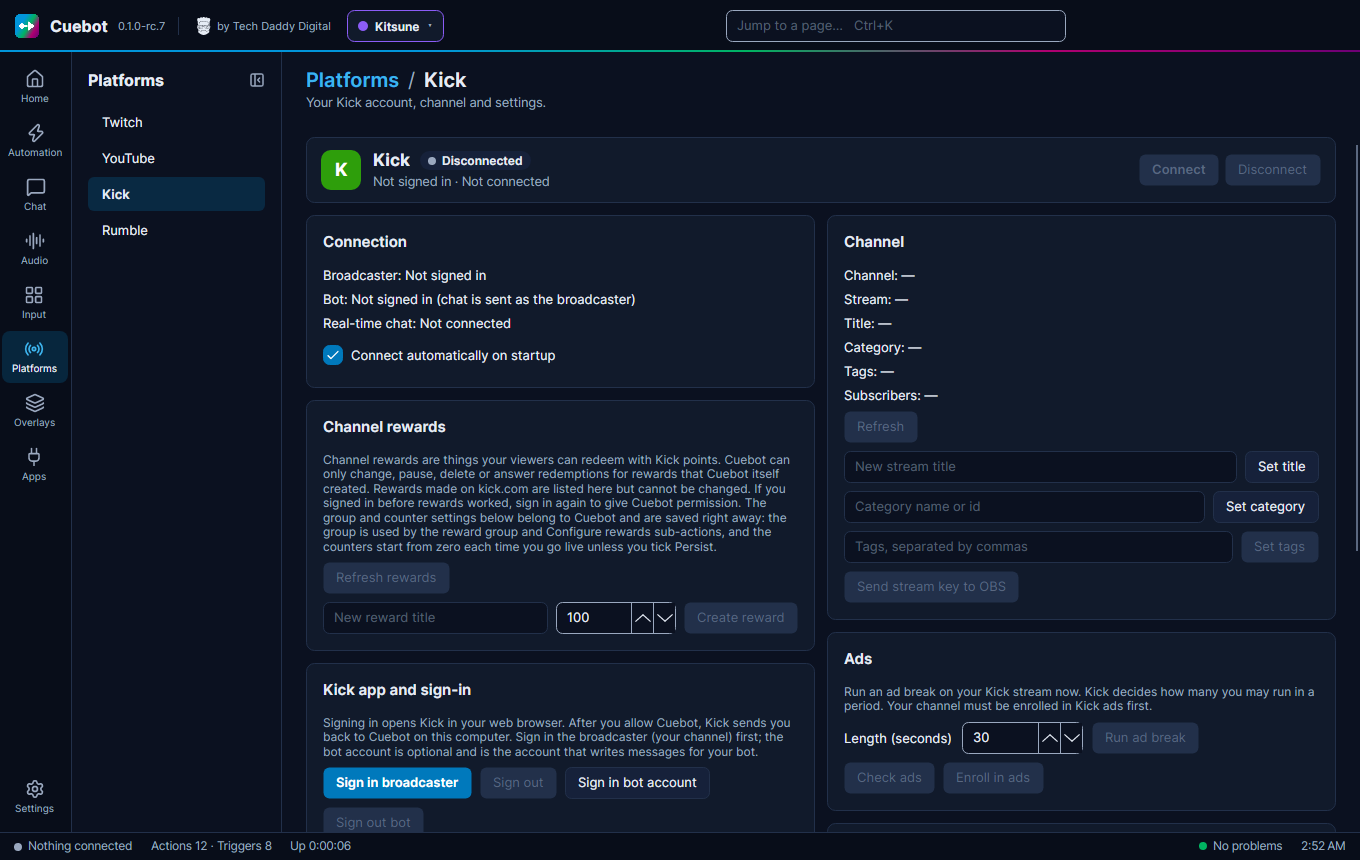
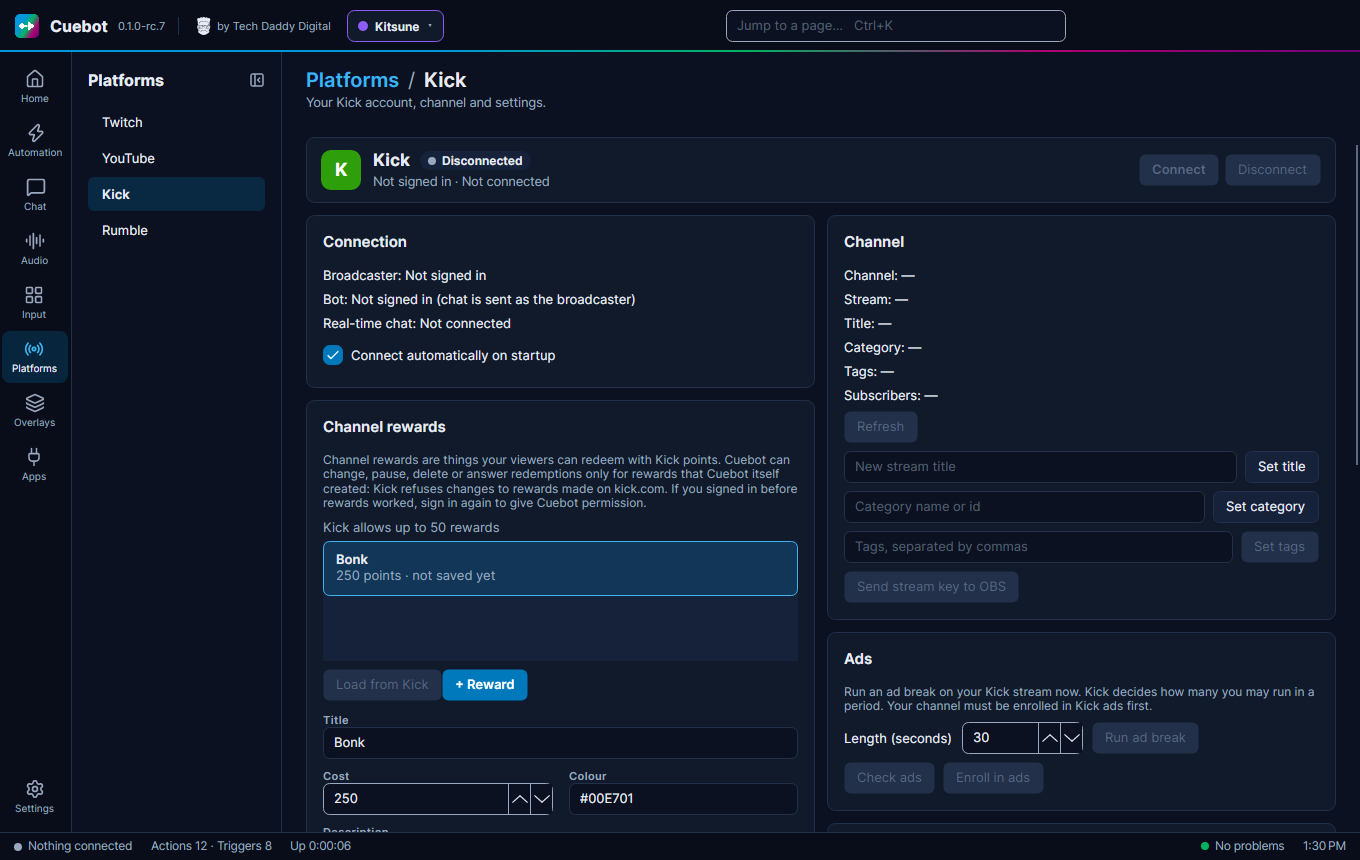
Docs site: screenshots for the mod portal Assistant and rewards
The guides already describe the mod portal Assistant, the Rewards page,
the Kick reward editor and the Twitch Power-ups tab. This adds the
pictures.

New pictures:
- Mod portal Assistant: a Bonk redeem with a sound attached; the
  Assistant makes the reward and action, then asks before running it.
  Shown in the mod portal and Assistant guides.
- Mod portal Rewards page and reward editor.

Regenerated with the docs screenshot test (CUEBOT_WRITE_SCREENSHOTS=1):
- Mod portal page, with the daily Assistant message limit.
- Kick page and its Channel rewards card (the new editor).
- Twitch Rewards and Power-ups tabs, and the other Twitch tabs whose
  tab strip now includes Power-ups.

The generator now puts an unsaved demo reward in both editors, since the
demo has no signed-in channel. Only pictures that changed for these
features were kept; the rest of that run was discarded.

Fix found while taking the pictures: a mod's message with an attached
file showed the note Cuebot adds for the AI, including upload ids. The
conversation now shows the mod's words and the file names; the AI still
gets the ids (ScopedConversation.Send gains a shown text).

Checks:
- New ScopedTests case for the shown text; Assistant and Portal test
  projects pass.
- The UiTests build passes and the screenshot run passes.
- mkdocs --strict passes.

AI-Assisted-By: Claude

Changed region(s): [[0.2162, 0.5442, 0.5868, 0.9674], [0.9882, 0.5442, 1.0, 0.6349], [0.8956, 0.9674, 0.9882, 0.9977]]

diff --git a/src/Cuebot.Portal/Assistant/PortalAssistant.cs b/src/Cuebot.Portal/Assistant/PortalAssistant.cs
@@ -60,7 +60,9 @@ public sealed class PortalAssistant(PortalDirectory directory, ScopedAssistant? 
             case "assistant.send":
             {
                 var text = (string?)request["text"] ?? "";
-                var attached = Attachments(member, request["attachments"] as JsonArray);
+                var (attached, names) = Attachments(member, request["attachments"] as JsonArray);
+                // The AI gets the files' upload ids; the conversation shows the mod's words and the file names.
+                var shown = names.Count > 0 ? $"{text.Trim()}\n📎 {string.Join(", ", names)}" : null;
                 if (attached.Length > 0) text = text.Trim() + "\n\n" + attached;
                 var conversation = assistant.For(key, () => new McpScope(Tools(member.Id), AssistantPrompt.BuildForMod(member.Name)),
                     () => AssistantPrompt.BuildForMod(member.Name));
@@ -69,7 +71,7 @@ public sealed class PortalAssistant(PortalDirectory directory, ScopedAssistant? 
                     var used = UsedToday(member.Id);
                     if (used >= directory.AssistantMessagesPerDay)
                         return Error($"You have used today's {directory.AssistantMessagesPerDay} messages. The count starts again tomorrow (UTC).");
-                    if (conversation.Send(text) is { } problem) return Error(problem);
+                    if (conversation.Send(text, shown) is { } problem) return Error(problem);
                     _used[member.Id] = (Today, used + 1);
                 }
                 log?.Info(LogSource, $"{member.Name} asked the assistant something.");
@@ -111,19 +113,26 @@ public sealed class PortalAssistant(PortalDirectory directory, ScopedAssistant? 
     }
 
     /// <summary>A note for the AI about the uploads the member attached: ones in the library, or their own waiting for approval.</summary>
-    private string Attachments(PortalMember member, JsonArray? ids)
+    private (string Note, List<string> Names) Attachments(PortalMember member, JsonArray? ids)
     {
-        if (ids is null || ids.Count == 0) return "";
         var notes = new List<string>();
+        var names = new List<string>();
+        if (ids is null || ids.Count == 0) return ("", names);
         foreach (var node in ids.Take(10))
         {
             if (!Guid.TryParse((string?)node, out var id)) continue;
             if (media?.Get(id) is { } item)
+            {
                 notes.Add($"- \"{item.Name}\" ({item.Kind.ToString().ToLowerInvariant()}): ready, use \"{PortalFiles.Prefix}{item.Id}\"");
+                names.Add(item.Name);
+            }
             else if (changes?.Pending.FirstOrDefault(c => c.Area == UploadArea.AreaName && c.TargetId == id && c.MemberId == member.Id) is { } pending)
+            {
                 notes.Add($"- \"{pending.TargetName}\": waiting for the streamer's approval, so it cannot be used in a step yet");
+                names.Add(pending.TargetName);
+            }
         }
-        return notes.Count == 0 ? "" : "Files I attached (already uploaded):\n" + string.Join("\n", notes);
+        return (notes.Count == 0 ? "" : "Files I attached (already uploaded):\n" + string.Join("\n", notes), names);
     }
 
     private static JsonArray Lines(IEnumerable<ScopedLine> lines) => new([.. lines.Select(l => (JsonNode)new JsonObject

diff --git a/tests/Cuebot.UiTests/DocsScreenshots.cs b/tests/Cuebot.UiTests/DocsScreenshots.cs
@@ -57,6 +57,7 @@ public sealed class DocsScreenshots : IAsyncDisposable
 
         DocsDemoData.RunSome(_host);
         Settle();
+        DemoRewards(vm);
         foreach (var page in vm.Pages)
         {
             vm.SelectedPage = page;
@@ -295,6 +296,29 @@ public sealed class DocsScreenshots : IAsyncDisposable
     {
         Pump();
         TestApp.SaveFrame(window, Path.Combine(OutputDir, name + ".png"));
+    }
+
+    /// <summary>
+    /// A new, unsaved "Bonk" reward in the Twitch and Kick reward editors, so their pictures show the form (the demo has
+    /// no signed-in channel to load rewards from).
+    /// </summary>
+    private static void DemoRewards(MainWindowViewModel vm)
+    {
+        foreach (var page in vm.Pages)
+        {
+            if (page is TwitchViewModel twitch)
+            {
+                twitch.Rewards.NewCommand.Execute(null);
+                var r = twitch.Rewards.Selected!;
+                (r.Title, r.Cost, r.Prompt, r.GlobalCooldownSeconds) = ("Bonk", 250, "Bonk the streamer", 30);
+            }
+            else if (page is Cuebot.App.ViewModels.Kick.KickViewModel kick)
+            {
+                kick.RewardEditor.NewCommand.Execute(null);
+                var r = kick.RewardEditor.Selected!;
+                (r.Title, r.Cost, r.Description) = ("Bonk", 250, "Bonk the streamer");
+            }
+        }
     }
 
     /// <summary>Saves just one control of the window, for a close-up.</summary>

diff --git a/tests/Cuebot.Assistant.Tests/ScopedTests.cs b/tests/Cuebot.Assistant.Tests/ScopedTests.cs
@@ -144,6 +144,29 @@ public sealed class ScopedTests
     }
 
     [Fact]
+    public async Task The_conversation_can_show_other_words_than_the_ai_is_sent()
+    {
+        await using var bot = new Bot();
+        var sent = new List<string>();
+        var provider = new ScriptedProvider((_, text, _) => Echo(text, sent));
+        await using var service = new AssistantService(null, [provider], bot.Manager, null, bot.Log);
+        await using var scoped = new ScopedAssistant(service);
+        var conversation = scoped.For("m", () => Scope([]), () => "");
+
+        Assert.Null(conversation.Send("make a redeem\n\nFiles I attached: upload:123", shown: "make a redeem\n📎 bonk.mp3"));
+        await Until(() => !conversation.Busy);
+        Assert.Equal(["make a redeem\n\nFiles I attached: upload:123"], sent);
+        Assert.Equal("make a redeem\n📎 bonk.mp3", conversation.Since(0).Single(l => l.Kind == "user").Text);
+
+        static async IAsyncEnumerable<AssistantUpdate> Echo(string text, List<string> sent)
+        {
+            sent.Add(text);
+            await Task.Yield();
+            yield return new AssistantText("ok");
+        }
+    }
+
+    [Fact]
     public async Task The_mcp_server_offers_a_scoped_token_only_its_tools_and_the_two_guides()
     {
         await using var bot = new Bot(requireConfirmation: false);

diff --git a/src/Cuebot.Assistant/ScopedAssistant.cs b/src/Cuebot.Assistant/ScopedAssistant.cs
@@ -131,7 +131,8 @@ public sealed class ScopedConversation : IAsyncDisposable
     /// Starts a turn in the background. Returns why it could not start (a turn already runs, the AI is busy with other
     /// conversations, the message is empty or too long), or null when it started.
     /// </summary>
-    public string? Send(string text)
+    /// <param name="shown">What the conversation shows as the person's message, when it differs from what the AI is sent.</param>
+    public string? Send(string text, string? shown = null)
     {
         text = text.Trim();
         if (text.Length == 0) return "Type a message first.";
@@ -143,7 +144,7 @@ public sealed class ScopedConversation : IAsyncDisposable
             if (!_owner.Slots.Wait(0)) return "The assistant is busy helping someone else. Try again in a minute.";
             turn = _turn = new CancellationTokenSource();
             LastUsed = _owner.Time.GetUtcNow();
-            Add("user", text);
+            Add("user", shown?.Trim() is { Length: > 0 } s ? s : text);
         }
         _ = Task.Run(() => RunAsync(text, turn.Token), CancellationToken.None);
         return null;

diff --git a/website/docs/guides/mods/mod-portal.md b/website/docs/guides/mods/mod-portal.md
@@ -87,6 +87,8 @@ Mods can ask your [Assistant](../ai/assistant.md) to set things up for them on t
 words: *"Make a channel point redeem called Bonk that plays this sound."* They can attach a sound, picture or video to
 the message. It is uploaded the usual way (see [Uploads](#uploads)), and the Assistant uses it in the step it builds.
 
+![The Assistant in the mod portal: a mod asks for a Bonk redeem with a sound attached; the Assistant creates the reward and the action, then asks before playing it on stream](../../assets/screens/portal-assistant.png)
+
 The Assistant can only do what the mod's role allows:
 
 - It works through the same requests as the portal's own pages, and Cuebot checks each one against the mod's role:
@@ -118,6 +120,14 @@ messages count against your AI account or API key. Two mods' answers are worked 
 Mods whose role has **Channel point rewards** get a **Rewards** page with your Twitch and Kick channel point rewards.
 They can add a reward, and change or delete the ones Cuebot made. Twitch and Kick only let the app that made a reward
 change it, so rewards you made on their websites are listed but read-only.
+
+<div class="grid" markdown>
+
+![The Rewards page in the mod portal: Kick and Twitch rewards with how many of 50 are used](../../assets/screens/portal-rewards.png)
+
+![Changing a Twitch reward in the mod portal: title, prompt, cost, colour, limits and cooldown](../../assets/screens/portal-reward-editor.png)
+
+</div>
 
 - Each platform shows how many rewards are used out of its limit: **50 per channel** on both Twitch and Kick, enabled
   and disabled together. At 50, mods cannot add more until one is deleted.

diff --git a/website/docs/guides/ai/assistant.md b/website/docs/guides/ai/assistant.md
@@ -85,6 +85,8 @@ Your mods can use the Assistant too, from the [mod portal](../mods/mod-portal.md
 conversations run on the AI you chose here, with only the tools their role allows, and each mod has a daily number
 of messages you set.
 
+![A mod using the Assistant in the mod portal](../../assets/screens/portal-assistant.png)
+
 ## The other way round
 
 Rather use your favourite AI app outside Cuebot, and let it work on Cuebot? See
